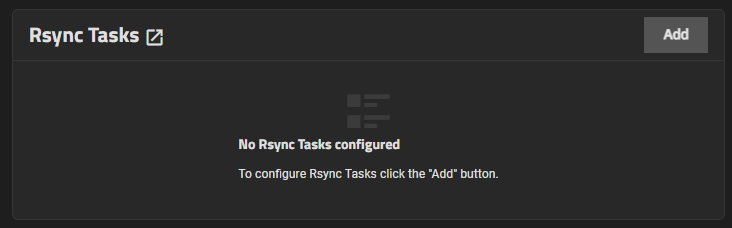
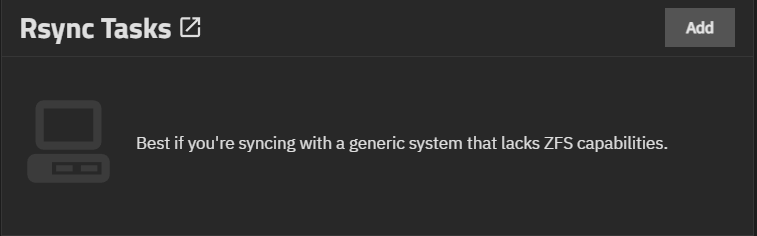
PD-2203 Update RsyncTaskScreens.md
This commit updates the RsyncTaskScreens.md UI ref article with new compressed screenshots and a missing setting. It includes grammar/spell check pass of the content.

diff --git a/content/SCALE/SCALEUIReference/DataProtection/RsyncTasksScreensSCALE.md b/content/SCALE/SCALEUIReference/DataProtection/RsyncTasksScreensSCALE.md
@@ -9,29 +9,25 @@ tags:
  - ssh
 ---
 
-The **Rsync Task** widget on the **Data Protection** screen shows configured rsync tasks configured on the TrueNAS system, and provides access to configuration screens to add single-time or scheduled recurring transfers between TrueNAS and an rsync backup server.
+The **Rsync Task** widget on the **Data Protection** screen shows rsync tasks configured on the TrueNAS system.
+It provides access to configuration screens to add single-time or scheduled recurring transfers between TrueNAS and an rsync backup server.
 Rsync tasks are an effective method to back up data to a remote location.
 
 ## Rsync Task Widget
-The **Rsync Tasks** widget shows a list of tasks configured on the system.
 
-{{< trueimage src="/images/SCALE/DataProtection/RsyncTaskWidget.png" alt="Data Protection Rsync Task Widget" id="Data Protection Rsync Task Widget" >}}
+The **Rsync Tasks** widget shows a description about rsync tasks until the first task is configured, then it shows a list of tasks configured on the system, with th details about the task, and the task status.
 
-The **Rsync Tasks** widget shows **No Rsync Tasks configured** before adding a task.
+{{< columns >}}
+{{< trueimage src="/images/SCALE/DataProtection/RsyncTaskWidgetNoTasks.png" alt="Rsync Task Widget No Tasks" id="Rsync Task Widget No Tasks" >}}
+<--->
+{{< trueimage src="/images/SCALE/DataProtection/RsyncTaskWidget.png" alt="Rsync Task Widget with Tasks" id="Rsync Task Widget with Tasks" >}}
+{{< /columns >}}
 
-{{< trueimage src="/images/SCALE/DataProtection/RsyncTaskWidgetNoTasks.png" alt="Data Protection Rsync Task Widget No Tasks" id="Data Protection Rsync Task Widget No Tasks" >}}
-
-Click on the widget header to open the [**Rsync Task**](#rsync-task-screen) screen that lists all tasks configured on the system.
+The widget header opens the [**Rsync Task**](#rsync-task-screen) screen.
 
 **Add** opens the **[Add Rsync Task](#add-and-edit-rsync-task-screens)** screen.
 
-Each task includes a vertical ellipses <span class="material-icons">more_vert</span> icon that opens a dropdown menu with three options for various functions:
-
-* The <span class="material-icons">edit</span> **Edit** icon opens the **[Edit Rsync Task](#add-and-edit-rsync-task-screens)** screen populated with with the settings for that task.
-
-* The <i class="material-icons" aria-hidden="true" title="Run Now">play_arrow</i> **Run Now** icon starts the rsync, running it outside of the scheduled time.
-
-* The <span class="material-icons">delete</span> **Delete** icon opens a confirmation dialog before the system deletes the task.
+{{< include file="/static/includes/RsyncMoreVertOptions.md" >}}
 
 **State** displays the status of the next cloud sync task as **SUCCESS** for completed tasks, **FAILED** if the task fails to complete the sync, and **PENDING** for tasks that have not run yet.
 Click on the state oval to open the **Logs** dialog for that task. **Download Logs** saves a copy of the current task logs.
@@ -39,21 +35,30 @@ Click on the state oval to open the **Logs** dialog for that task. **Download Lo
 {{< trueimage src="/images/SCALE/DataProtection/RsyncTaskLogDialog.png" alt="Rsync Task Log Dialog" id="Rsync Task Log Dialog" >}}
 
 ## Rsync Task Screen
+
 The **Rsync Task** screen lists all tasks configured on the system.
 
-{{< trueimage src="/images/SCALE/DataProtection/RsyncTasksScreen.png" alt="Rsync Task Screen" id="Rsync Task Screen" >}}
+{{< trueimage src="/images/SCALE/DataProtection/RsyncTasksScreen.png" alt="Rsync Tasks Screen" id="Rsync Tasks Screen" >}}
 
-Each task shows details about the configured task and the same icon buttons found on the Rsync Task widget to run the task outside of the scheduled time, edit, or delete the task.
+The screen shows a table listing each task, with details about the task, and the task status.
+Table column headings sort the list in ascending or descending order.
+
+{{< include file="/static/includes/RsyncMoreVertOptions.md" >}}
+
+**Add** opens the **[Add Rsync Task](#add-and-edit-rsync-task-screens)** screen.
 
 {{<include file="/static/includes/addcolumnorganizer.md">}}
 
 ## Add and Edit Rsync Task Screens
-The **Add Rsync Task** and **Edit Rsync Task** screens display the same settings.
+
+The **Add Rsync Task** and **Edit Rsync Task** screens show the same settings.
+The sections below group settings by functional area.
 
 ### Source and Remote Options
+
 **Source** settings specify the location of the stored data to sync with a remote server, set the user that performs the task, and the direction of the task (send or receive data).
 The **Remote** settings specify the mode for the task and remote host connection information.
-Settings change based on the **Rsync Mode** selected (**Module** or **SSH**).
+Settings change based on the option (**Module** or **SSH**) set in **Rsync Mode**.
 
 {{< trueimage src="/images/SCALE/DataProtection/AddRsyncTaskSourceAndRemoteSettings.png" alt="Rsync Task Source and Remote Module Settings" id="Rsync Task Source and Remote Module Settings" >}}
 
@@ -69,10 +74,11 @@ Settings change based on the **Rsync Mode** selected (**Module** or **SSH**).
 | **User** | (Required) Select the user to run the rsync task. Select a user who has permissions to write to the specified directory on the remote host. If setting **Rsync Mode** to **SSH**, the user must have an SSH private key in their home directory if **Connect using** is set to **SSH private key stored in user's home directory**. |
 | **Direction** | (Required) Select the direction of the flow of data to the remote host. Options are:<br><li>**Push** - During a push, the dataset copies data to the remote module.<br><li>**Pull** - During a pull, the dataset stores data copied from the remote system.</li> |
 | **Description** | (Optional) Enter a description of the rsync task. |
-| **Rsync Mode** | Select the mode from the dropdown list. Options are:<br><li>**Module** - Select to use a custom-defined remote module from the rsync server.<br><li>**SSH** - Select to use an SSH configuration for the rsync task. The remote system must have SSH enabled. The host system needs an established SSH connection to the remote for the rsync task. **SSH** displays more settings.</li> |
+| **Rsync Mode** | Select the mode from the dropdown list. Options are:<br><li>**Module** - Uses a custom-defined remote module from the rsync server.<br><li>**SSH** - Uses an SSH configuration for the rsync task. The remote system must have SSH enabled. The host system needs an established SSH connection to the remote for the rsync task. **SSH** displays more settings.</li> |
 | **Remote Host** | (Required) Enter the IP address or host name and domain of the remote system. Use the format `username@remote_host` if the user name differs on the remote host. |
 | **Remote Module Name** | (Required) If **Rsync Mode** is set to **Module**, specify the name of the module on the remote rsync server. Define at least one module per [rsyncd.conf(5)](https://www.samba.org/ftp/rsync/rsyncd.conf.html) on the remote rsync server. Enter the **Module Name** exactly as it appears on the remote system. |
-| **Connect using** | (Required) If **Rsync Mode** is set to **SSH**, select the connection method from the dropdown list. Options are:<br><li>**SSH private key stored in user's home directory** - If selected, the user entered in **User** must have an SSH private key added and stored in the home directory for the user. Create the SSH connection and keypair, download the keys, then add the private key to the user in the UI and to the home directory either from the **Shell** using Linux CLI commands or while in an SSH session with the system.<br><li>**SSH connection from the keychain** - Requires creating an [SSH connection and keypair]({{< ref "AddSSHConnectionKeyPair" >}}) before setting up the rsync task. |
+| **Connect using** | (Required) When **Rsync Mode** is set to **SSH**, shows two options: <br><li>**SSH private key stored in user's home directory** - The user entered in **User** must have an SSH private key added and stored in the home directory for the user. Create the SSH connection and keypair, download the keys, then add the private key to the user in the UI and to the home directory either from the **Shell** using Linux CLI commands or while in an SSH session with the system. <br><li>**SSH connection from the keychain** - Requires creating an [SSH connection and keypair]({{< ref "AddSSHConnectionKeyPair" >}}) before setting up the rsync task. Shows the **SSH Connection** dropdown list showing SSH connections configured in the system.</li> |
+| **SSH Connection** | Shows when **Rsync Mode** is set to **SSH**, and **Connect Using** is set to **SSH connecton from the keychain**. Shows a dropdown list of SSH connections added in TrueNAS. Sets the rsync task to use the selected SSH connection to authenticate sync operations with the remote server. |
 | **Remote SSH Port** |  (Required) If **Rsync Mode** is set to **SSH**, enter the SSH port number of the remote system. By default, **22** is reserved in TrueNAS. |
 | **Remote Path** | Enter an existing path on the remote host. Maximum path length is 255 characters. |
 | **Validate Remote Path** | Shows when **Rsync Mode** is set to **SSH**. Set to test the remote server connection and verify that the defined **Remote Path** exists. |
@@ -80,6 +86,7 @@ Settings change based on the **Rsync Mode** selected (**Module** or **SSH**).
 {{< /expand >}}
 
 ### Schedule and More Options
+
 **Schedule** defines when the remote sync task occurs.
 The **More Options** specify other settings related to when and how the rsync occurs.
 

diff --git a/content/SCALE/SCALEUIReference/DataProtection/CloudSyncTasksScreensSCALE.md b/content/SCALE/SCALEUIReference/DataProtection/CloudSyncTasksScreensSCALE.md
@@ -87,8 +87,8 @@ The wizard has two screens, **Provider** and **What and When**.
 
 ### Provider Wizard Screen
 
-The **Provider** wizard screen allows you to select the cloud sync provider with the **Credentials** dropdown.
-Select the provider from the dropdown list to show the additional credential settings the selected provider requires to establish a connection.
+The **Provider** wizard screen allows you to set the cloud sync provider with the **Credentials** dropdown.
+Selecting a provider from the dropdown list shows the additional credential settings required to establish a connection.
 
 {{< trueimage src="/images/SCALE/DataProtection/CloudSyncTaskWizardProviderScreen.png" alt="Cloudsync Task Wizard Provider Screen" id="Cloudsync Task Wizard Provider Screen" >}}
 
@@ -100,7 +100,7 @@ Select the provider from the dropdown list to show the additional credential set
 
 ### What and When Wizard Screen
 
-The **What and When** screen sets the direction (push or pull), transfer mode (move, copy, or sync), select the datasets or directories source and destination, and the schedule for the transfer.
+The **What and When** screen sets the direction (push or pull), transfer mode (move, copy, or sync), sets the datasets or directories source and destination, and the schedule for the transfer.
 **Bucket** shows for providers that use buckets to hold transferred files, folders, etc.
 
 {{< trueimage src="/images/SCALE/DataProtection/CloudSyncTaskWizardWhatandWhenScreen.png" alt="Cloudsync Task Wizard Provider Screen" id="Cloudsync Task Wizard Provider Screen" >}}

diff --git a/content/SCALE/SCALEUIReference/DataProtection/_index.md b/content/SCALE/SCALEUIReference/DataProtection/_index.md
@@ -9,6 +9,9 @@ related: false
 ---
 
 The **Data Protection** screen  widgets allows users to set up multiple redundant tasks that protect and/or backup data in case of drive failure.
+The screen shows **No Data Protection Tasks**, a message, and **Create Pool** until you add the first pool to your system.
+After adding a pool, the screen shows a description of each task in the widgets until you configure a task.
+Configured tasks are listed in the corresponding task widgets with details about, and the status of the task.
 
 {{< trueimage src="/images/SCALE/DataProtection/DataProtectionScreen.png" alt="Data Protection Screen" id="Data Protection Screen" >}}
 

diff --git a/content/SCALE/SCALETutorials/DataProtection/_index.md b/content/SCALE/SCALETutorials/DataProtection/_index.md
@@ -9,6 +9,9 @@ aliases:
 ---
 
 The **Data Protection** screen task widgets allows users to set up multiple redundant tasks to protect and/or backup data in case of drive failure.
+The screen shows **No Data Protection Tasks**, a message, and **Create Pool** until you add the first pool to your system.
+After adding a pool, the screen shows a description of each task in the widgets until you configure a task.
+Configured tasks are listed in the corresponding task widgets with details about, and the status of the task.
 
 {{< trueimage src="/images/SCALE/DataProtection/DataProtectionScreen.png" alt="Data Protection Screen" id="Data Protection Screen" >}}
 

diff --git a/static/includes/RsyncMoreVertOptions.md b/static/includes/RsyncMoreVertOptions.md
@@ -1,0 +1,9 @@
+&NewLine;
+
+The vertical ellipses <span class="material-icons">more_vert</span> icon to the right of each task opens a dropdown menu with three options for various functions:
+
+* <span class="material-icons">edit</span> **Edit** opens the **[Edit Rsync Task](#add-and-edit-rsync-task-screens)** screen populated with with the settings for that task.
+
+* The <i class="material-icons" aria-hidden="true" title="Run Now">play_arrow</i> **Run job** starts the rsync operation, running it outside of the scheduled time.
+
+* <span class="material-icons">delete</span> **Delete** opens a confirmation dialog.
